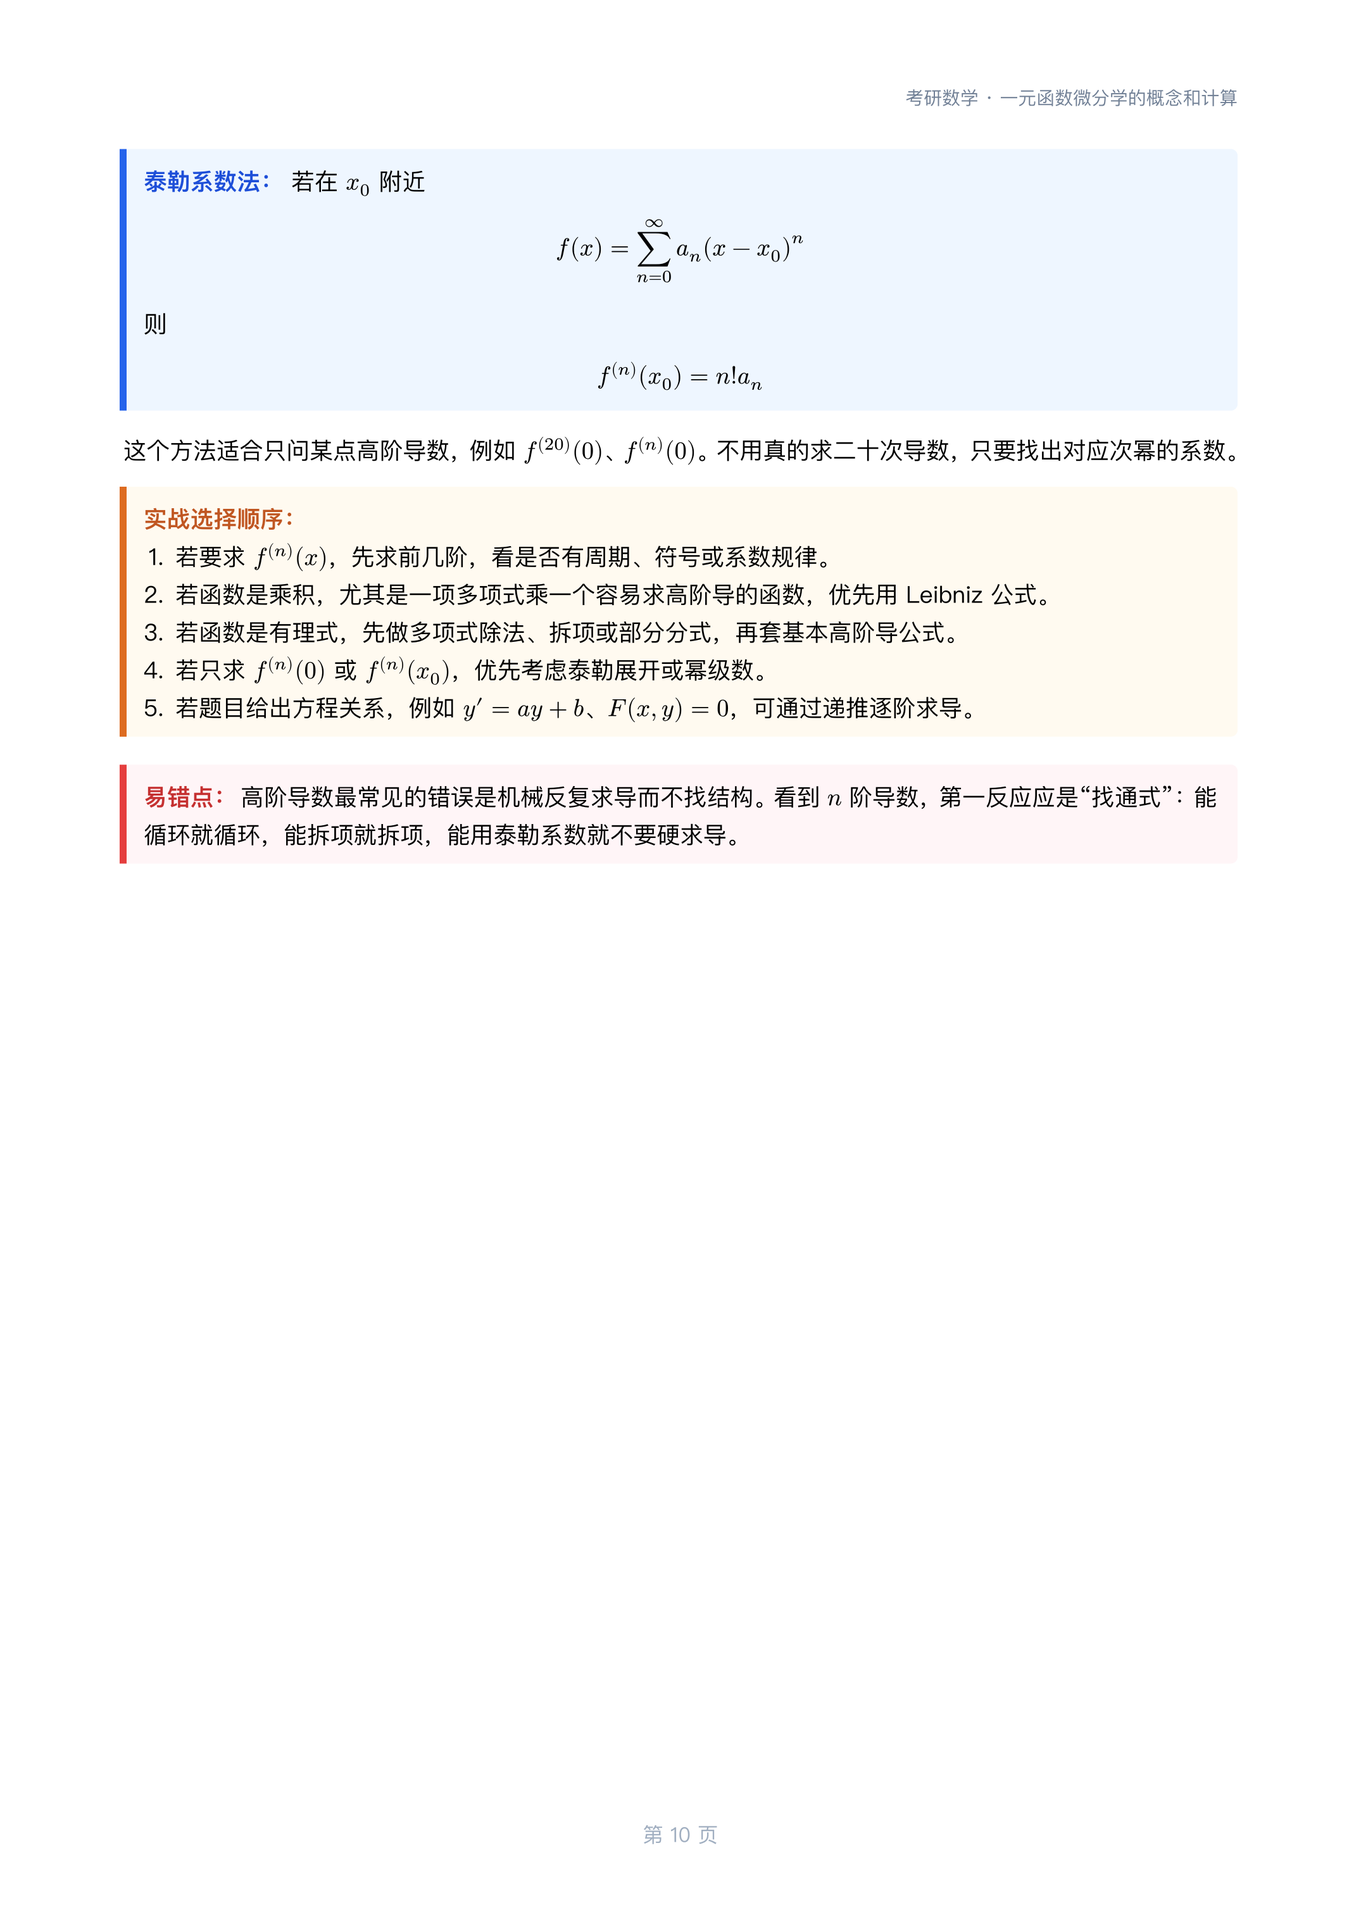
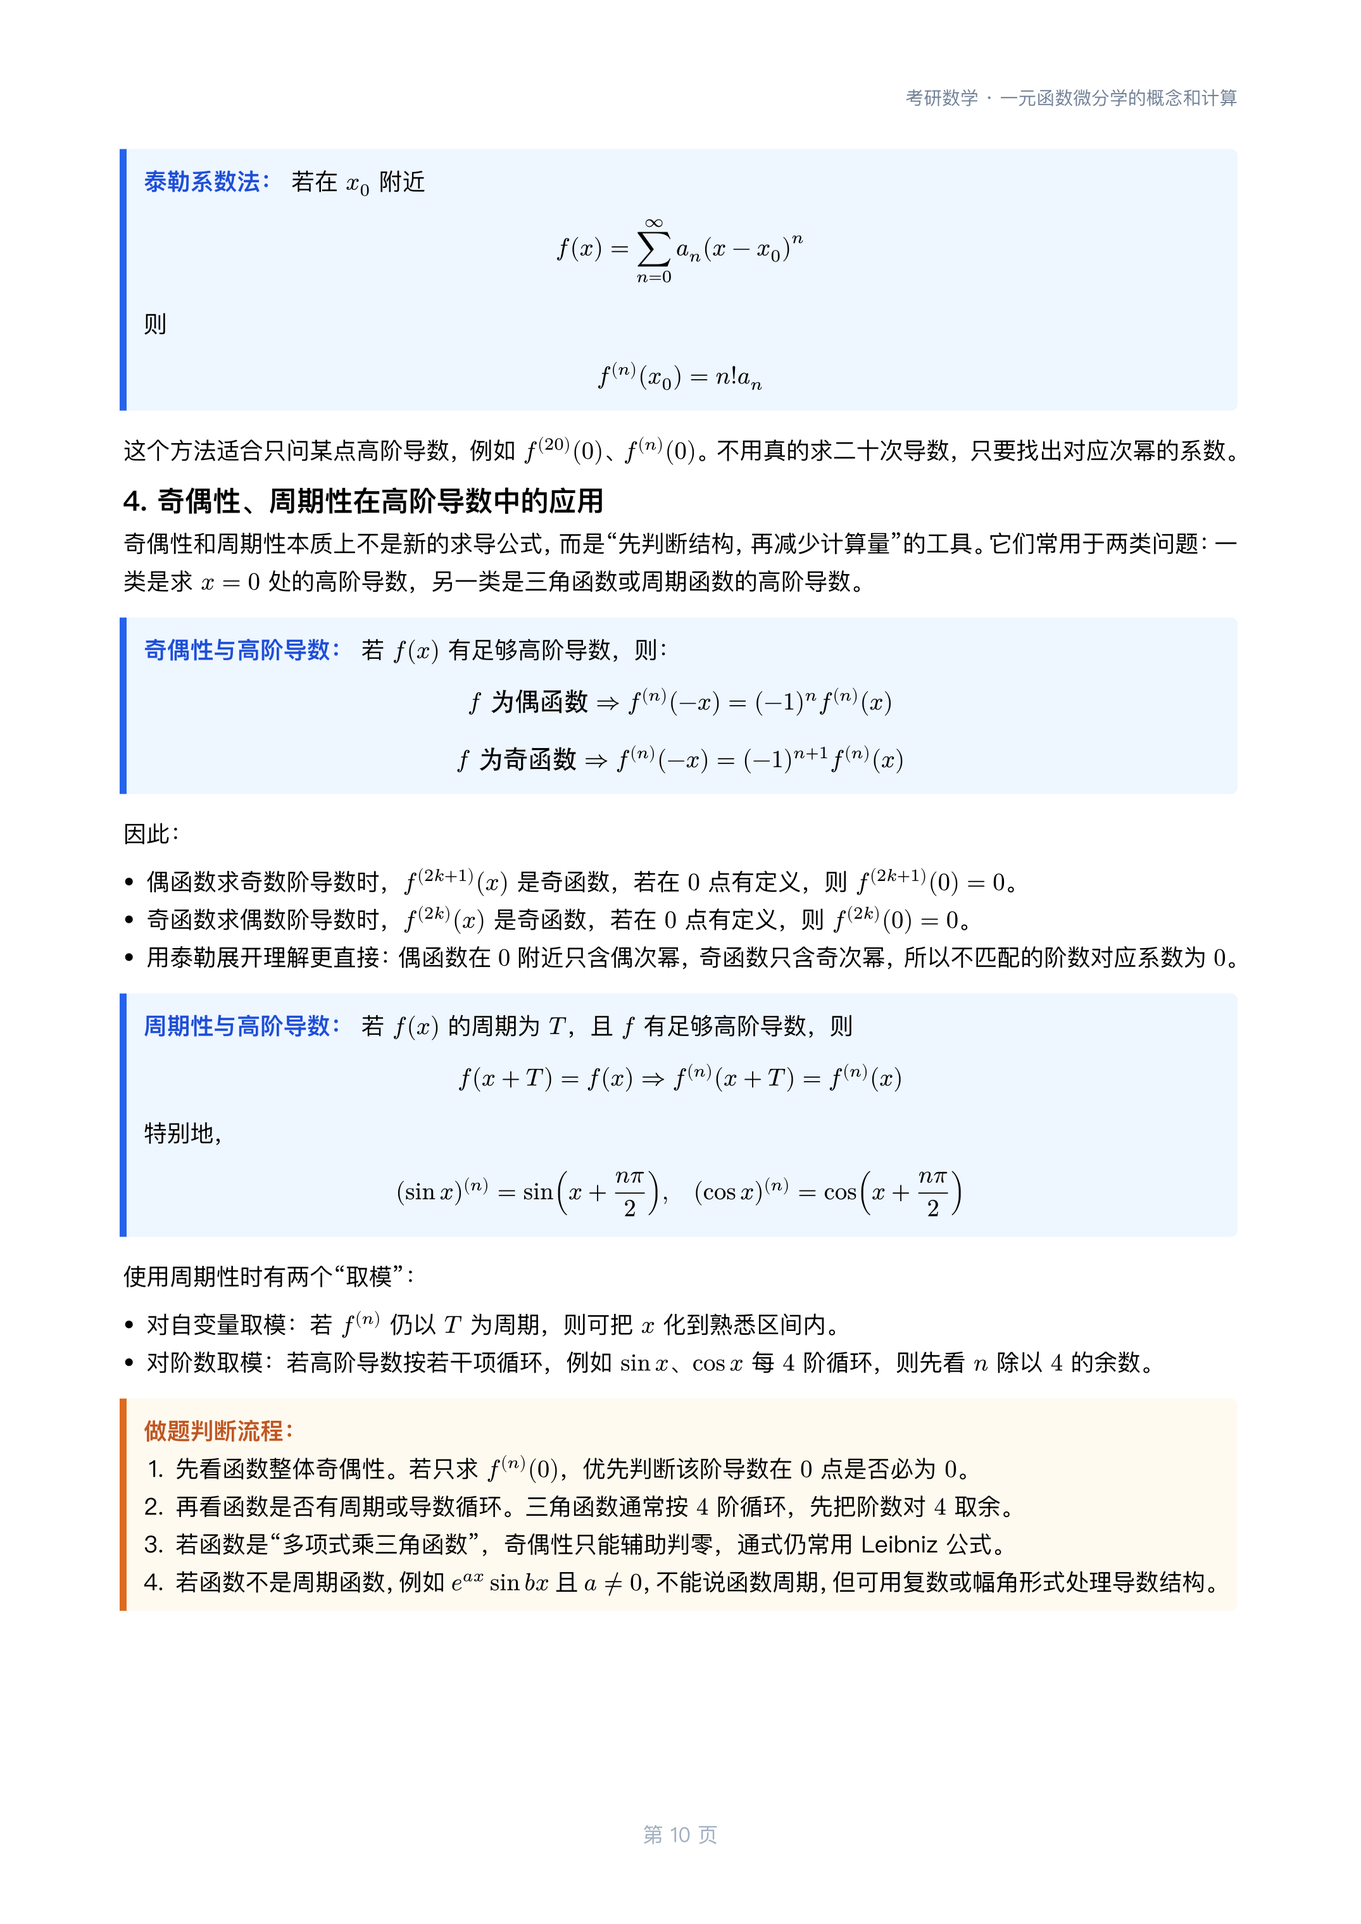
Add parity and periodicity derivative methods

diff --git a/ebook/data.js b/ebook/data.js
@@ -2,10 +2,10 @@
 window.BOOK_MANIFEST = {
   "title": "考研数学电子书",
   "subtitle": "微积分 · 线性代数 · 概率论",
-  "generatedAt": "2026-08-05T10:03:15+08:00",
+  "generatedAt": "2026-08-05T10:15:49+08:00",
   "stats": {
     "documents": 23,
-    "pages": 272,
+    "pages": 273,
     "renderDpi": 260,
     "pageRenderer": "typst-direct-webp",
     "pageImageExtension": "webp",
@@ -119,7 +119,7 @@ window.BOOK_MANIFEST = {
           "sourcePath": "typst/Differential Calculus Concepts and Computation (一元函数微分学的概念和计算).typ",
           "pageImageBase": "./rendered-pages/doc-31985d1e27f4/page-",
           "pageImageExtension": "webp",
-          "pageCount": 13,
+          "pageCount": 14,
           "sections": [
             {
               "id": "doc-31985d1e27f4-s1",
@@ -154,7 +154,7 @@ window.BOOK_MANIFEST = {
             {
               "id": "doc-31985d1e27f4-s6",
               "title": "六、典型例题",
-              "page": 11,
+              "page": 12,
               "level": 1
             }
           ]
@@ -1396,7 +1396,7 @@ window.BOOK_MANIFEST = {
       "sourcePath": "typst/Differential Calculus Concepts and Computation (一元函数微分学的概念和计算).typ",
       "pageImageBase": "./rendered-pages/doc-31985d1e27f4/page-",
       "pageImageExtension": "webp",
-      "pageCount": 13,
+      "pageCount": 14,
       "sections": [
         {
           "id": "doc-31985d1e27f4-s1",
@@ -1431,7 +1431,7 @@ window.BOOK_MANIFEST = {
         {
           "id": "doc-31985d1e27f4-s6",
           "title": "六、典型例题",
-          "page": 11,
+          "page": 12,
           "level": 1
         }
       ]
@@ -2715,17 +2715,17 @@ window.SEARCH_INDEX = [
     "page": 9,
     "heading": "一元函数微分学的概念和计算",
     "snippet": "五、高阶导数与常见结构 1. 高阶导数 若 f' x 仍可导，则称其导数为二阶导数： f'' x f' x ' 依次可定义 n 阶导数 f^ n x 。 2. 常见高阶导数 columns: 2fr, 2.4fr , align: center, left , stroke: 0.5pt + rgb , fill: x, y if y 0...",
-    "text": "Differential Calculus Concepts and Computation (一元函数微分学的概念和计算) Differential Calculus Concepts and Computation 一元函数微分学的概念和计算 微积分 一元函数微分学的概念和计算 五、高阶导数与常见结构 1. 高阶导数 若 f' x 仍可导，则称其导数为二阶导数： f'' x f' x ' 依次可定义 n 阶导数 f^ n x 。 2. 常见高阶导数 columns: 2fr, 2.4fr , align: center, left , stroke: 0.5pt + rgb , fill: x, y if y 0 rgb else if calc.rem y, 2 0 rgb , 函数 , n 阶导数 , e^ a x , a^n e^ a x , sin x , 按 sin x, cos x, -sin x, -cos x 循环 , ln 1+x , -1 ^ n-1 n-1 !/ 1+x ^n , 1/ 1-x , n!/ 1-x ^ n+1 , 3. 高阶导数计算的常见处理方法 高阶导数题先判断目标：是求一般的 f^ n x ，还是只求某点处的 f^ n x 0 。前者通常需要找规律或套公式，后者常用泰勒系数最快。 columns: 1.45fr, 2.75fr, 2.75fr , align: center, left, left , stroke: 0.5pt + rgb , fill: x, y if y 0 rgb else if calc.rem y, 2 0 rgb , 方法 , 适用结构 , 核心做法 , 直接求导找规律 , 指数、三角、简单幂函数 , 先求前几阶，观察系数、符号和周期 , 循环规律法 , sin x, cos x, e^ a x sin b x 等 , 三角函数按四阶循环；指数三角可转化为幅角循环 , 拆项与部分分式 , 有理函数、分式函数 , 先化成若干简单项，再分别求 n 阶导 , Leibniz 公式 , 两个函数乘积的 n 阶导数 , 用组合数展开，尤其适合多项式乘指数或三角 , 泰勒系数法 , 只求 x 0 点处高阶导数 , 展开 f x sum a n x-x 0 ^n ，则 f^ n x 0 n! a n , 递推关系法 , 函数满足方程、隐式关系或导数能回到自身 , 由低阶导数推出高阶导数通式 , Leibniz 公式 若 u x ,v x 有足够高阶导数，则 u v ^ n sum k 0 ^n binom n,k u^ k v^ n-k 特别地，若 u x 是 m 次多项式，则 u^ k 0 当 k m ，所以求和只保留有限几项。这个特点使 x^m e^ a x 、 x^m sin x 、 x^m cos x 的高阶导数计算明显简化。 泰勒系数法 若在 x 0 附近 f x sum n 0 ^infinity a n x-x 0 ^n 则 f^ n x 0 n! a n 这个方法适合只问某点高阶导数，例如 f^ 20 0 、 f^ n 0 。不用真的求二十次导数，只要找出对应次幂的系数。 实战选择顺序 1. 若要求 f^ n x ，先求前几阶，看是否有周期、符号或系数规律。\\ 2. 若函数是乘积，尤其是一项多项式乘一个容易求高阶导的函数，优先用 Leibniz 公式。\\ 3. 若函数是有理式，先做多项式除法、拆项或部分分式，再套基本高阶导公式。\\ 4. 若只求 f^ n 0 或 f^ n x 0 ，优先考虑泰勒展开或幂级数。\\ 5. 若题目给出方程关系，例如 y' a y+b 、 F x,y 0 ，可通过递推逐阶求导。 高阶导数最常见的错误是机械反复求导而不找结构。看到 n 阶导数，第一反应应是“找通式”：能循环就循环，能拆项就拆项，能用泰勒系数就不要硬求导。"
+    "text": "Differential Calculus Concepts and Computation (一元函数微分学的概念和计算) Differential Calculus Concepts and Computation 一元函数微分学的概念和计算 微积分 一元函数微分学的概念和计算 五、高阶导数与常见结构 1. 高阶导数 若 f' x 仍可导，则称其导数为二阶导数： f'' x f' x ' 依次可定义 n 阶导数 f^ n x 。 2. 常见高阶导数 columns: 2fr, 2.4fr , align: center, left , stroke: 0.5pt + rgb , fill: x, y if y 0 rgb else if calc.rem y, 2 0 rgb , 函数 , n 阶导数 , e^ a x , a^n e^ a x , sin x , 按 sin x, cos x, -sin x, -cos x 循环 , ln 1+x , -1 ^ n-1 n-1 !/ 1+x ^n , 1/ 1-x , n!/ 1-x ^ n+1 , 3. 高阶导数计算的常见处理方法 高阶导数题先判断目标：是求一般的 f^ n x ，还是只求某点处的 f^ n x 0 。前者通常需要找规律或套公式，后者常用泰勒系数最快。 columns: 1.45fr, 2.75fr, 2.75fr , align: center, left, left , stroke: 0.5pt + rgb , fill: x, y if y 0 rgb else if calc.rem y, 2 0 rgb , 方法 , 适用结构 , 核心做法 , 直接求导找规律 , 指数、三角、简单幂函数 , 先求前几阶，观察系数、符号和周期 , 循环规律法 , sin x, cos x, e^ a x sin b x 等 , 三角函数按四阶循环；指数三角可转化为幅角循环 , 奇偶周期法 , 只求 0 点高阶导或三角周期结构 , 由奇偶性先判零；由周期性把阶数按循环节取模 , 拆项与部分分式 , 有理函数、分式函数 , 先化成若干简单项，再分别求 n 阶导 , Leibniz 公式 , 两个函数乘积的 n 阶导数 , 用组合数展开，尤其适合多项式乘指数或三角 , 泰勒系数法 , 只求 x 0 点处高阶导数 , 展开 f x sum a n x-x 0 ^n ，则 f^ n x 0 n! a n , 递推关系法 , 函数满足方程、隐式关系或导数能回到自身 , 由低阶导数推出高阶导数通式 , Leibniz 公式 若 u x ,v x 有足够高阶导数，则 u v ^ n sum k 0 ^n binom n,k u^ k v^ n-k 特别地，若 u x 是 m 次多项式，则 u^ k 0 当 k m ，所以求和只保留有限几项。这个特点使 x^m e^ a x 、 x^m sin x 、 x^m cos x 的高阶导数计算明显简化。 泰勒系数法 若在 x 0 附近 f x sum n 0 ^infinity a n x-x 0 ^n 则 f^ n x 0 n! a n 这个方法适合只问某点高阶导数，例如 f^ 20 0 、 f^ n 0 。不用真的求二十次导数，只要找出对应次幂的系数。 4. 奇偶性、周期性在高阶导数中的应用 奇偶性和周期性本质上不是新的求导公式，而是“先判断结构，再减少计算量”的工具。它们常用于两类问题：一类是求 x 0 处的高阶导数，另一类是三角函数或周期函数的高阶导数。 奇偶性与高阶导数 若 f x 有足够高阶导数，则： f 为偶函数 f^ n -x -1 ^n f^ n x f 为奇函数 f^ n -x -1 ^ n+1 f^ n x 因此： - 偶函数求奇数阶导数时， f^ 2 k+1 x 是奇函数，若在 0 点有定义，则 f^ 2 k+1 0 0 。 - 奇函数求偶数阶导数时， f^ 2 k x 是奇函数，若在 0 点有定义，则 f^ 2 k 0 0 。 - 用泰勒展开理解更直接：偶函数在 0 附近只含偶次幂，奇函数只含奇次幂，所以不匹配的阶数对应系数为 0 。 周期性与高阶导数 若 f x 的周期为 T ，且 f 有足够高阶导数，则 f x+T f x f^ n x+T f^ n x 特别地， sin x ^ n sin x+ n pi /2 , quad cos x ^ n cos x+ n pi /2 使用周期性时有两个“取模”： - 对自变量取模：若 f^ n 仍以 T 为周期，则可把 x 化到熟悉区间内。 - 对阶数取模：若高阶导数按若干项循环，例如 sin x 、 cos x 每 4 阶循环，则先看 n 除以 4 的余数。 做题判断流程 1. 先看函数整体奇偶性。若只求 f^ n 0 ，优先判断该阶导数在 0 点是否必为 0 。\\ 2. 再看函数是否有周期或导数循环。三角函数通常按 4 阶循环，先把阶数对 4 取余。\\ 3. 若函数是“多项式乘三角函数”，奇偶性只能辅助判零，通式仍常用 Leibniz 公式。\\ 4. 若函数不是周期函数，例如 e^ a x sin b x 且 a ! 0 ，不能说函数周期，但可用复数或幅角形式处理导数结构。 实战选择顺序 1. 若要求 f^ n x ，先求前几阶，看是否有周期、符号或系数规律。\\ 2. 若只求 x 0 处的高阶导数，先用奇偶性判断是否为 0 ，再用泰勒系数法求非零项。\\ 3. 若函数是乘积，尤其是一项多项式乘一个容易求高阶导的函数，优先用 Leibniz 公式。\\ 4. 若函数是有理式，先做多项式除法、拆项或部分分式，再套基本高阶导公式。\\ 5. 若只求 f^ n 0 或 f^ n x 0 ，优先考虑泰勒展开或幂级数。\\ 6. 若题目给出方程关系，例如 y' a y+b 、 F x,y 0 ，可通过递推逐阶求导。 高阶导数最常见的错误是机械反复求导而不找结构。看到 n 阶导数，第一反应应是“找通式”：能循环就循环，能拆项就拆项，能用泰勒系数就不要硬求导。"
   },
   {
-    "id": "doc-31985d1e27f4-p11",
+    "id": "doc-31985d1e27f4-p12",
     "docId": "doc-31985d1e27f4",
     "title": "Differential Calculus Concepts and Computation (一元函数微分学的概念和计算)",
     "category": "微积分",
-    "page": 11,
+    "page": 12,
     "heading": "一元函数微分学的概念和计算",
     "snippet": "六、典型例题 例题 1：导数定义 题目 设 f x x^2 ，用定义求 f' x 0 。 由定义 f' x 0 lim Delta x- 0 x 0+Delta x ^2-x 0^2 / Delta x lim Delta x- 0 2 x 0 Delta x+ Delta x ^2 / Delta x lim Delta x- 0 2 ...",
-    "text": "Differential Calculus Concepts and Computation (一元函数微分学的概念和计算) Differential Calculus Concepts and Computation 一元函数微分学的概念和计算 微积分 一元函数微分学的概念和计算 六、典型例题 例题 1：导数定义 题目 设 f x x^2 ，用定义求 f' x 0 。 由定义 f' x 0 lim Delta x- 0 x 0+Delta x ^2-x 0^2 / Delta x lim Delta x- 0 2 x 0 Delta x+ Delta x ^2 / Delta x lim Delta x- 0 2 x 0+Delta x 2 x 0 例题 2：隐函数求导 题目 由方程 x^2+x y+y^2 1 确定 y y x ，求 y' 。 两边对 x 求导： 2 x+ x y '+2 y y' 0 其中 x y ' y+x y' 所以 2 x+y+x y'+2 y y' 0 整理得 x+2 y y' - 2 x+y 因此 y' - 2 x+y / x+2 y 例题 3：参数方程求导 题目 设 x t^2+1 ， y t^3-t ，求 dif y / dif x 。 有 dif x / dif t 2 t, quad dif y / dif t 3 t^2-1 当 t ! 0 时， dif y / dif x 3 t^2-1 / 2 t 例题 4：Leibniz 公式求高阶导 题目 求 y x^2 e^x 的 n 阶导数。 令 u x^2, quad v e^x 则 u' 2 x, quad u'' 2, quad u^ k 0 quad k 3 且 v^ m e^x 由 Leibniz 公式 y^ n sum k 0 ^n binom n,k u^ k v^ n-k 只需要保留 k 0,1,2 三项： y^ n x^2 e^x+n dot 2 x e^x+ n n-1 /2 dot 2 e^x 整理得 y^ n e^x x^2+2 n x+n n-1 本题总结 多项式乘指数函数时，不要反复求导。多项式高阶导会很快变成 0 ，用 Leibniz 公式只保留有限项即可。 例题 5：泰勒系数法求某点高阶导 题目 求 f x ln 1+x 在 x 0 处的 n 阶导数 f^ n 0 。 已知 ln 1+x sum m 1 ^infinity -1 ^ m-1 x^m/m quad abs x 1 因此 x^n 的系数为 a n -1 ^ n-1 /n 由泰勒系数关系 f^ n 0 n! a n 得到 f^ n 0 -1 ^ n-1 n-1 ! 本题总结 只求某一点的高阶导数时，优先看能否展开为幂级数。找到 x^n 的系数后乘以 n! ，通常比逐次求导快得多。"
+    "text": "Differential Calculus Concepts and Computation (一元函数微分学的概念和计算) Differential Calculus Concepts and Computation 一元函数微分学的概念和计算 微积分 一元函数微分学的概念和计算 六、典型例题 例题 1：导数定义 题目 设 f x x^2 ，用定义求 f' x 0 。 由定义 f' x 0 lim Delta x- 0 x 0+Delta x ^2-x 0^2 / Delta x lim Delta x- 0 2 x 0 Delta x+ Delta x ^2 / Delta x lim Delta x- 0 2 x 0+Delta x 2 x 0 例题 2：隐函数求导 题目 由方程 x^2+x y+y^2 1 确定 y y x ，求 y' 。 两边对 x 求导： 2 x+ x y '+2 y y' 0 其中 x y ' y+x y' 所以 2 x+y+x y'+2 y y' 0 整理得 x+2 y y' - 2 x+y 因此 y' - 2 x+y / x+2 y 例题 3：参数方程求导 题目 设 x t^2+1 ， y t^3-t ，求 dif y / dif x 。 有 dif x / dif t 2 t, quad dif y / dif t 3 t^2-1 当 t ! 0 时， dif y / dif x 3 t^2-1 / 2 t 例题 4：Leibniz 公式求高阶导 题目 求 y x^2 e^x 的 n 阶导数。 令 u x^2, quad v e^x 则 u' 2 x, quad u'' 2, quad u^ k 0 quad k 3 且 v^ m e^x 由 Leibniz 公式 y^ n sum k 0 ^n binom n,k u^ k v^ n-k 只需要保留 k 0,1,2 三项： y^ n x^2 e^x+n dot 2 x e^x+ n n-1 /2 dot 2 e^x 整理得 y^ n e^x x^2+2 n x+n n-1 本题总结 多项式乘指数函数时，不要反复求导。多项式高阶导会很快变成 0 ，用 Leibniz 公式只保留有限项即可。 例题 5：泰勒系数法求某点高阶导 题目 求 f x ln 1+x 在 x 0 处的 n 阶导数 f^ n 0 。 已知 ln 1+x sum m 1 ^infinity -1 ^ m-1 x^m/m quad abs x 1 因此 x^n 的系数为 a n -1 ^ n-1 /n 由泰勒系数关系 f^ n 0 n! a n 得到 f^ n 0 -1 ^ n-1 n-1 ! 本题总结 只求某一点的高阶导数时，优先看能否展开为幂级数。找到 x^n 的系数后乘以 n! ，通常比逐次求导快得多。 例题 6：奇偶性辅助判断高阶导 题目 设 f x x sin x ，求 f^ 2025 0 与 f^ 2024 0 。 因为 x 与 sin x 都是奇函数，所以 f x x sin x 是偶函数。偶函数的奇数阶导数在 0 点为 0 ，故 f^ 2025 0 0 再用泰勒展开求偶数阶： x sin x x sum k 0 ^infinity -1 ^k x^ 2 k+1 / 2 k+1 ! sum k 0 ^infinity -1 ^k x^ 2 k+2 / 2 k+1 ! 令 2 k+2 2024 ，得 k 1011 ，所以 x^2024 的系数为 -1/2023! 。由泰勒系数法 f^ 2024 0 2024! dot -1 / 2023! -2024 本题总结 奇偶性先负责“判零”，泰勒系数法再负责“求非零值”。这比直接求 2024 阶导数更稳定。 例题 7：周期性辅助判断高阶导 题目 求 y sin x 的 2026 阶导数。 sin x 的高阶导数按四阶循环： sin x - cos x - -sin x - -cos x - sin x 因为 2026 4 dot 506+2 所以第 2026 阶对应循环中的第二个余数位置： y^ 2026 -sin x 本题总结 三角函数高阶导数不要逐阶求。先把阶数对 4 取余，再确定符号与函数类型。"
   },
   {
     "id": "doc-70452ebbf4aa-p2",

diff --git a/ebook/sw.js b/ebook/sw.js
@@ -1,4 +1,4 @@
-const CACHE_VERSION = "20260805-higher-order-derivatives";
+const CACHE_VERSION = "20260805-parity-periodicity-derivatives";
 const SHELL_CACHE = `kaoyan-math-ebook-shell-${CACHE_VERSION}`;
 const PAGE_CACHE = `kaoyan-math-ebook-pages-${CACHE_VERSION}`;
 const ACTIVE_CACHES = new Set([SHELL_CACHE, PAGE_CACHE]);
@@ -6,9 +6,9 @@ const ACTIVE_CACHES = new Set([SHELL_CACHE, PAGE_CACHE]);
 const SHELL_ASSETS = [
   "./",
   "./index.html",
-  "./style.css?v=20260805-higher-order-derivatives",
-  "./data.js?v=20260805-higher-order-derivatives",
-  "./app.js?v=20260805-higher-order-derivatives",
+  "./style.css?v=20260805-parity-periodicity-derivatives",
+  "./data.js?v=20260805-parity-periodicity-derivatives",
+  "./app.js?v=20260805-parity-periodicity-derivatives",
 ];
 
 self.addEventListener("install", (event) => {

diff --git a/ebook/index.html b/ebook/index.html
@@ -4,7 +4,7 @@
     <meta charset="utf-8" />
     <meta name="viewport" content="width=device-width, initial-scale=1" />
     <title>考研数学电子书</title>
-    <link rel="stylesheet" href="./style.css?v=20260805-higher-order-derivatives" />
+    <link rel="stylesheet" href="./style.css?v=20260805-parity-periodicity-derivatives" />
   </head>
   <body>
     <div class="app-shell">
@@ -54,7 +54,7 @@
       </main>
     </div>
 
-    <script src="./data.js?v=20260805-higher-order-derivatives"></script>
-    <script src="./app.js?v=20260805-higher-order-derivatives" defer></script>
+    <script src="./data.js?v=20260805-parity-periodicity-derivatives"></script>
+    <script src="./app.js?v=20260805-parity-periodicity-derivatives" defer></script>
   </body>
 </html>

diff --git a/ebook/app.js b/ebook/app.js
@@ -10,7 +10,7 @@ const PAGE_OBSERVER_MARGIN = "900px 0px";
 const BACKGROUND_PRELOAD_START_DELAY_MS = 1800;
 const BACKGROUND_PRELOAD_BATCH_DELAY_MS = 320;
 const BACKGROUND_PRELOAD_BATCH_SIZE = 2;
-const APP_VERSION = "20260805-higher-order-derivatives";
+const APP_VERSION = "20260805-parity-periodicity-derivatives";
 const SERVICE_WORKER_FILE = "./sw.js";
 const BOOK_RENDER_ID = "__full_book__";
 
